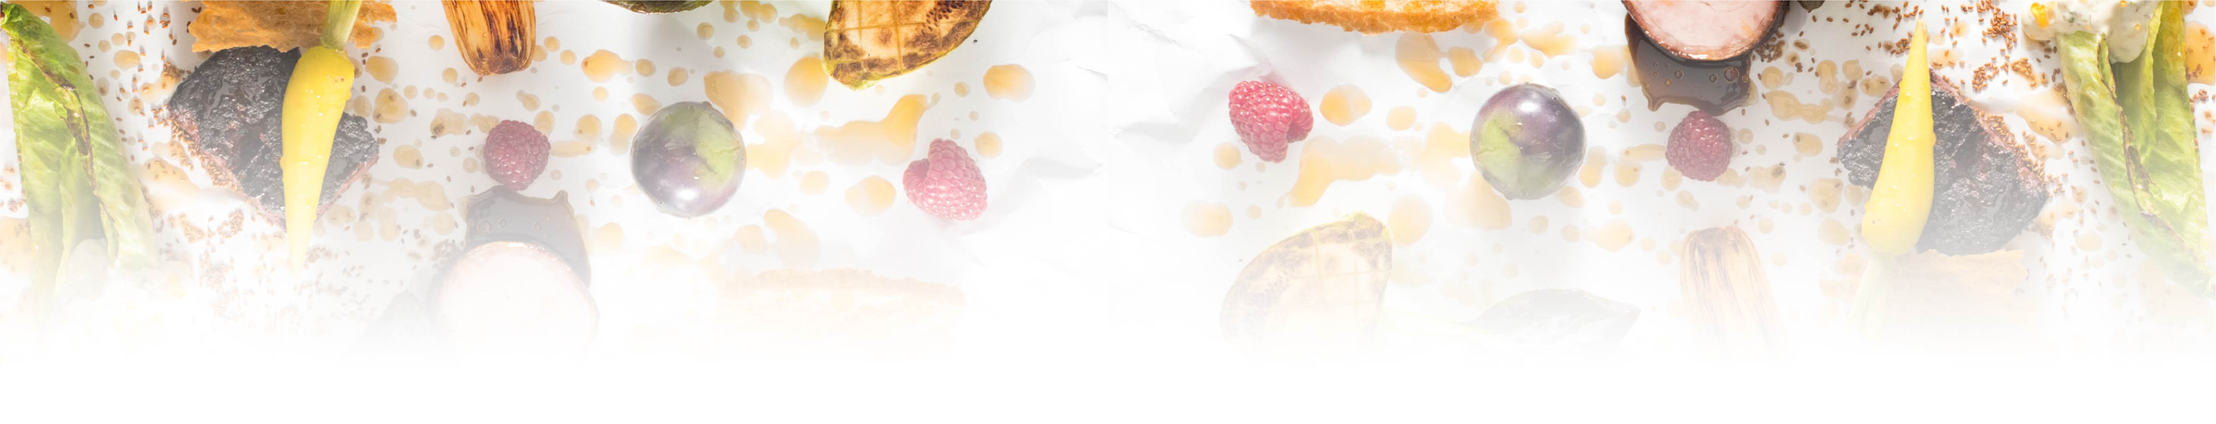
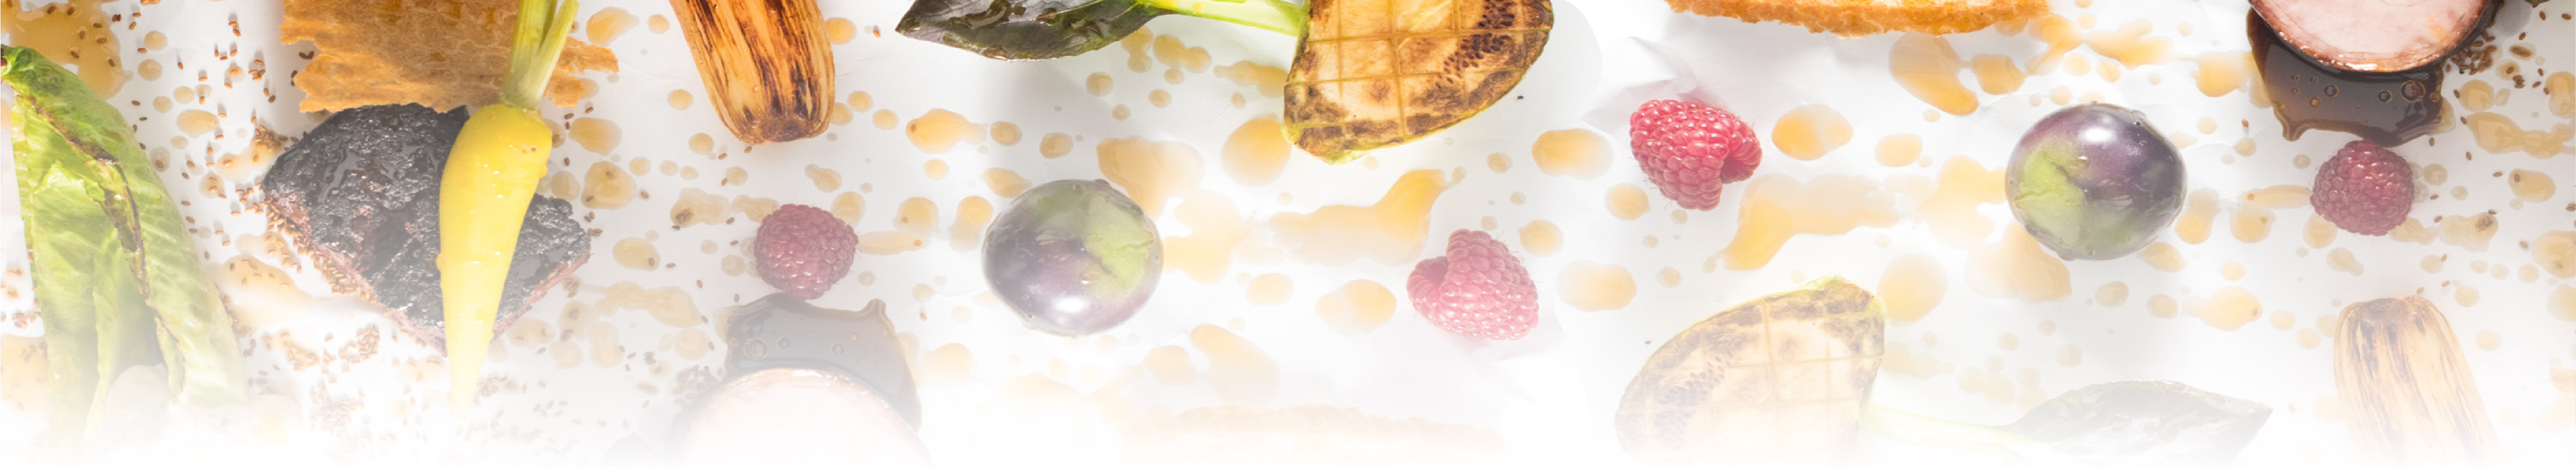
Users and Sessions CSS complete

diff --git a/Seat_YoSelf/app/assets/stylesheets/application.css b/Seat_YoSelf/app/assets/stylesheets/application.css
@@ -69,29 +69,29 @@
    font-family: arial;
  }
 
+ body {
+   min-width: 1280px;
+   position: relative;
+ }
+
  img.img_header{
-  width: 100vw;
-  position: absolute;
+   width: 1280px;
   z-index: -100;
 }
 
 img.img_logo{
- width: 50%;
+ width: 635px;
  position: absolute;
  top: 180px;
- left: 60px;
+ left: 5%;
 }
 
 img.img_tile{
- width: 100vw;
+ width: 100%;
  height: 40px;
  position: absolute;
  opacity: .6;
- top: 90px;
-}
-
-.each_img{
-  object-fit: cover;
+ top: 110px;
 }
 
 div#rest_button a:link{
@@ -100,14 +100,14 @@ div#rest_button a:link{
   text-decoration: none;
   top: 210px;
   border: 1px blue solid;
-  padding: 20px;
+  padding: 1.5%;
   color: #3e9fe5;
   border-radius: 15px;
   background: white;
   opacity: .8;
   font-size: 120%;
   font-family: arial;
-  right: 300px;
+  right: 20%;
   text-align: center;
 }
 
@@ -117,14 +117,14 @@ div#cuis_button a:link{
   text-decoration: none;
   top: 210px;
   border: 1px blue solid;
-  padding: 20px;
+  padding: 1.5%;
   color: #3e9fe5;
   border-radius: 15px;
   background: white;
   opacity: .8;
   font-size: 120%;
   font-family: arial;
-  right: 100px;
+  right: 5%;
 }
 
 div#sign_up_button a:link{
@@ -136,11 +136,11 @@ div#sign_up_button a:link{
   border-radius: 15px;
   opacity: .8;
   font-family: arial;
-  right: 250px;
-  top: 80px;
+  right: 20%;
+  top: 100px;
   background: none;
   border: none;
-  font-size: 1.4em;
+  font-size: 140%;
   color: black;
 }
 
@@ -153,11 +153,11 @@ div#log_in_button a:link{
   border-radius: 15px;
   opacity: .8;
   font-family: arial;
-  right: 120px;
-  top: 80px;
+  right: 5%;
+  top: 100px;
   background: none;
   border: none;
-  font-size: 1.4em;
+  font-size: 140%;
   color: black;
 }
 
@@ -227,6 +227,28 @@ div#rest_button a:visited {
   color: black;
 }
 
+div#sign_up_button a:link {
+  text-decoration: none;
+  font-style: normal;
+  color: black;
+}
+div#sign_up_button a:visited {
+  text-decoration: none;
+  font-style: normal;
+  color: black;
+}
+
+div#log_in_button a:link {
+  text-decoration: none;
+  font-style: normal;
+  color: black;
+}
+div#log_in_button a:visited {
+  text-decoration: none;
+  font-style: normal;
+  color: black;
+}
+
 div#cuis_button a:link {
   text-decoration: none;
   font-style: normal;
@@ -236,12 +258,6 @@ div#cuis_button a:visited {
   text-decoration: none;
   font-style: normal;
   color: black;
-}
-
-
-nav {
-  margin-top: 425px;
-  width: 100vw;
 }
 
 h1{
@@ -302,7 +318,7 @@ h6{
 
 .form {
   text-align: right;
-  margin-right: 500px;
+  margin-right: 35%;
 }
 
 textarea {

diff --git a/Seat_YoSelf/app/assets/stylesheets/users.scss b/Seat_YoSelf/app/assets/stylesheets/users.scss
@@ -2,6 +2,10 @@
 // They will automatically be included in application.css.
 // You can use Sass (SCSS) here: http://sass-lang.com/
 
+div#user_top{
+  margin-top: 8%;
+}
+
 div a:link.user-show-link {
   left: 0;
   color: #363636;
@@ -44,5 +48,8 @@ div.user-show-restaurant, div.user-show-reservation {
   text-align: left;
   margin-left: 10%;
   margin-right: 10%;
+}
 
+.actions_sign_up {
+  text-align: center;
 }

diff --git a/Seat_YoSelf/app/assets/stylesheets/sessions.scss b/Seat_YoSelf/app/assets/stylesheets/sessions.scss
@@ -1,3 +1,7 @@
 // Place all the styles related to the Sessions controller here.
 // They will automatically be included in application.css.
 // You can use Sass (SCSS) here: http://sass-lang.com/
+
+div#sessions_top {
+  margin-top: 10%;
+}
